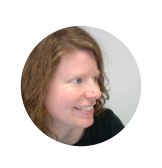
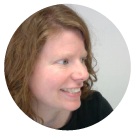
container redesign

diff --git a/unit10/style.css b/unit10/style.css
@@ -7,12 +7,12 @@ body{
 
 #topbar{
 	background-color: #203367;
-	height:135px;
+	height: 125px;
 	width:100%;
 }
 
 #logo{
-	width:135px;
+	width:124px;
 	margin: 0 auto;
 	position: relative;
 	top: 50%;
@@ -25,7 +25,7 @@ h1 {
 	font-weight: 400;
 	padding: .25em 0em 1em 0em;
 	text-align: center;
-	margin-top: 100px;
+	margin-top: 90px;
 	line-height: 1.618em;
 }
 
@@ -50,14 +50,12 @@ p{
 a {
 	color: #203367;
 	text-decoration: none;
-	border-bottom: 2px solid #203367;
 	padding-bottom: 2px;
 
 }
 
 a:hover {
-	color: #528b8b;
-	border-bottom: 2px solid #528b8b;
+	border-bottom: 2px solid #203367;
 }
 
 ul {
@@ -78,9 +76,8 @@ ul {
 }
 
 .container {
-	background:white;
+	background: #fff;
 	width: 31.33%;
-	border: 1em #fff solid;
 	border-radius: 1em;
 	margin: 1%;
 	float: left;
@@ -92,13 +89,14 @@ ul {
 	max-width: 275px;
 	display: block;
 	margin: 0 auto;
-	border: .25em solid #d3d3d3;
 	border-radius: 1em;
 }
 
 .container p {
-	margin-top: 1em;
-
+	background: #203367;
+	color: #fff;
+	padding: 1em;
+	border-radius: 0 0 1em 1em;
 }
 
 .clearfix:after { 
@@ -117,18 +115,36 @@ height: 0;
 	margin-top: 3em;
 }
 
+#contactbar {
+	background-color: #203367;
+	width:100%;
+	height: 80px;
+	margin-top: 8%;
+	color: #fff;
+	padding: 2em;
+	text-align: center;
+}
+
+#contactbar a {
+	color: #fff;
+}
+
+#contactbar a:hover {
+	border-bottom: 2px solid #fff;
+}
 
 .aboutwrapper {
 	width: 75%;
 	margin: 0 auto;
 	line-height: 1.68em;
 	color: #fff;
-	padding: 1%
+	padding: .5em;
 }
 
 .aboutcol {
 	float: left;
 	margin-right: 5%;
+
 }
 
 .portfoliowrapper {
@@ -152,7 +168,7 @@ height: 0;
 
 #portfoliotopbar{
 	background-color: #203367;
-	height:100px;
+	height:80px;
 	width:100%;
 }
 
@@ -170,10 +186,11 @@ height: 0;
 }
 
 section {
-	width: 95%;
+	width: 100%;
 	margin: 0 auto;
-	max-width: 750px;
+	max-width: 770px;
 }
+
 
 ul li{
 	display: inline-block;
@@ -208,8 +225,8 @@ float: none;
 	width: 100%;
 	border: 1em #fff solid;
 	border-radius: 1em;
-	margin: 12% auto 3%;
-	max-width: 750px;
+	margin: 5% auto 3%;
+	max-width: 775px;
 }
 
 .bigcontainer img {
@@ -223,12 +240,12 @@ float: none;
 @media only screen and (min-width: 792px) and (max-width: 1100px) {
 
 .container {
-	background:white;
+	background: #fff;
 	width: 45%;
-	border: 1em #fff solid;	
 	border-radius: 1em;
-	margin: 2%;
+	margin: 1%;
 	float: left;
+	max-width: 330px;
 }
 
 
@@ -238,7 +255,7 @@ float: none;
 }
 
 .portfoliowrapper {
-	width: 80%;
+	width: 90%;
 	margin: 0 auto;
 }
 
@@ -246,13 +263,14 @@ float: none;
 }
 
 @media only screen and (min-width: 642px) and (max-width: 791px) {
+
 .container {
-	background:white;
+	background: #fff;
 	width: 45%;
-	border: 1em #fff solid;
 	border-radius: 1em;
 	margin: 2%;
 	float: left;
+	max-width: 330px;
 }
 
 .wrapper {
@@ -265,7 +283,7 @@ float: none;
 	width: 100%;
 	border: 1em #fff solid;
 	border-radius: 1em;
-	margin: 15% auto 3%;
+	margin: 5% auto 3%;
 	max-width: 750px;
 }
 
@@ -292,12 +310,12 @@ float: none;
 }
 
 .container {
-	background:white;
-	width: 100%;
-	border: 1em #fff solid;
+	background: #fff;
+	width: 95%;
 	border-radius: 1em;
 	margin: 0 auto 8%;
 	float: none;
+	max-width: 330px;
 }
 
 .wrapper {
@@ -314,6 +332,8 @@ float: none;
 .aboutcol {
 	float: none;
 	width: 100%;
+	padding: .5em;
+
 }
 
 .aboutcol img, h3{
@@ -323,7 +343,8 @@ float: none;
 .bigcontainer {
 	background:white;
 	width: 100%;
-	margin: 24% auto 3%;
+	margin: 5% auto 3%;
+
 }
 
 
@@ -366,6 +387,7 @@ ul li{
 	display: block;
 	margin: 0 auto;
 
+
 }
 
 #topbar{
@@ -390,6 +412,16 @@ h1 {
 	text-align: center;
 	margin-top: 75px;
 	line-height: 1.618em;
+}
+
+#contactbar {
+	background-color: #203367;
+	width:100%;
+	height: 80px;
+	margin-top: 25%;
+	color: #fff;
+	padding: 2em;
+	text-align: center;
 }
 
 }

diff --git a/unit10/index.html b/unit10/index.html
@@ -13,7 +13,7 @@
 
 <header>
 	<div id="topbar">
-	<div id="logo"><img src="smlogo.png"></div>
+	<div id="logo"><img src="smallerlogo_124.png"></div>
 	</div>
 
 </header>
@@ -22,24 +22,25 @@
 	<h1>Welcome to the design portfolio of Jennifer Ramming</h1>
 
 			<div class="container">
-			<a href="portfolio.html"><img src="umthumbnail.jpg"></a>
-			<p>United Methodist catalog</p>
+			<div><a href="portfolio.html"><img src="umthumbnail.jpg"></a></div>
+			<div><p>United Methodist catalog</p></div>
 			</div>
 
 			<div class="container">
-			<img src="leadershipthumbnail.jpg">
-			<p>Leadership & Theology catalog</p>
+			<div><a href="portfolio.html"><img src="leadershipthumbnail.jpg"></a></div>
+			<div><p>Leadership & Theology catalog</p></div>
 			</div>
 
 			<div class="container">
-			<img src="cokesburyessentialsthumbnail.jpg">
-			<p>Cokesbury Essentials catalog</p>
+			<div><a href="portfolio.html"><img src="cokesburyessentialsthumbnail.jpg"></a></div>
+			<div><p>Cokesbury Essentials catalog</p></div>
 			</div>
 
 			<div class="container">
-			<img src="cokesburyessentialsthumbnail.jpg">
-			<p>Cokesbury Essentials catalog</p>
+			<div><a href="portfolio.html"><img src="tmmthumbnail.jpg"></a></div>
+			<div><p>Thoroughly Modern Monsters</p></div>
 			</div>
+
 
 			<div class="container">
 			<img src="umthumbnail.jpg">

diff --git a/unit10/portfolio.html b/unit10/portfolio.html
@@ -13,7 +13,7 @@
 
 <header>
 	<div id="portfoliotopbar">
-	<div id="portfoliologo"><a href="index.html"><img src="smlogo.png"></a></div>
+	<!--<div id="portfoliologo"><a href="index.html"><img src="smlogo.png"></a></div>-->
 	</div>
 
 </header>
@@ -24,13 +24,21 @@
 	<section>
 	<ul id="navigation">
 		<li class="right">NEXT ></li>
-		<li class="right">< BACK</li>
-		<li class="left"><h4>United Methodist catalog cover for Cokesbury</h4></li>
+		<li class="right">< <a href="index.html">BACK</a></li>
+		<li class="left"><h4>UM catalog cover for Cokesbury</h4></li>
 
 	</ul>
 	</section>
 
-</div>
+	</div>
+
+<footer>
+	<div id="contactbar">
+		<h3>Contact Me: <a href="mailto:jennifer.ramming@gmail.com">jennifer.ramming@gmail.com</a></h3>
+				
+	</div>
+	
+</footer>
 
 </body>
 </html>
